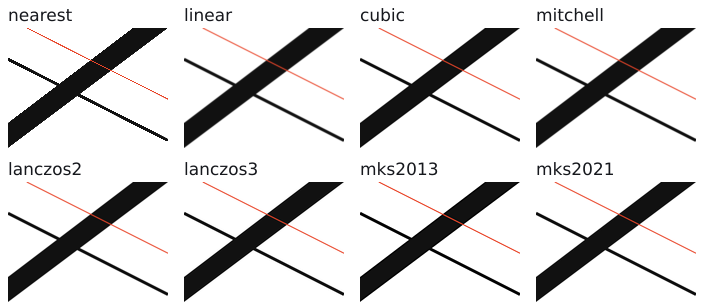
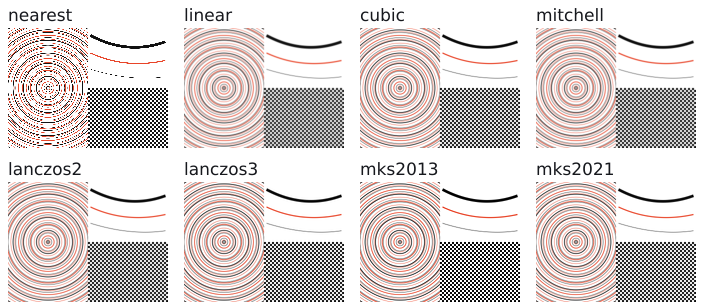
Use rings, curved diagonals and checkerboard for kernel comparison

diff --git a/docs/src/content/docs/api-resize.md b/docs/src/content/docs/api-resize.md
@@ -41,12 +41,12 @@ Possible downsizing kernels are:
 - `mks2013`: Use a [Magic Kernel Sharp](https://johncostella.com/magic/mks.pdf) 2013 kernel, as adopted by Facebook.
 - `mks2021`: Use a Magic Kernel Sharp 2021 kernel, with more accurate (reduced) sharpening than the 2013 version.
 
-The comparison below downsizes the same 1280x960 high-contrast diagonal graphic to 160x120 with each kernel.
+The comparison below downsizes the same 1280x960 test pattern of concentric rings, curved diagonals and a checkerboard to 160x120 with each kernel.
 Use `nearest` to keep hard pixel edges; `linear` softens them. For photographs,
 start with the default `lanczos3`, then compare other kernels if fine edges
 look too soft or show halos. The best choice depends on the image and output size.
 
-<img alt="Side-by-side 160x120 downsizes of one diagonal graphic using nearest, linear, cubic, mitchell, lanczos2, lanczos3, mks2013 and mks2021 kernels" width="704" height="308" src="/api-resize-kernels.png">
+<img alt="Side-by-side 160x120 downsizes of a rings, diagonals and checkerboard test pattern using nearest, linear, cubic, mitchell, lanczos2, lanczos3, mks2013 and mks2021 kernels" width="704" height="308" src="/api-resize-kernels.png">
 
 Rebuild this image with `node docs/scripts/generate-kernel-comparison.mjs`.
 The comparison disables shrink-on-load so the kernel's effect is easier to see.
